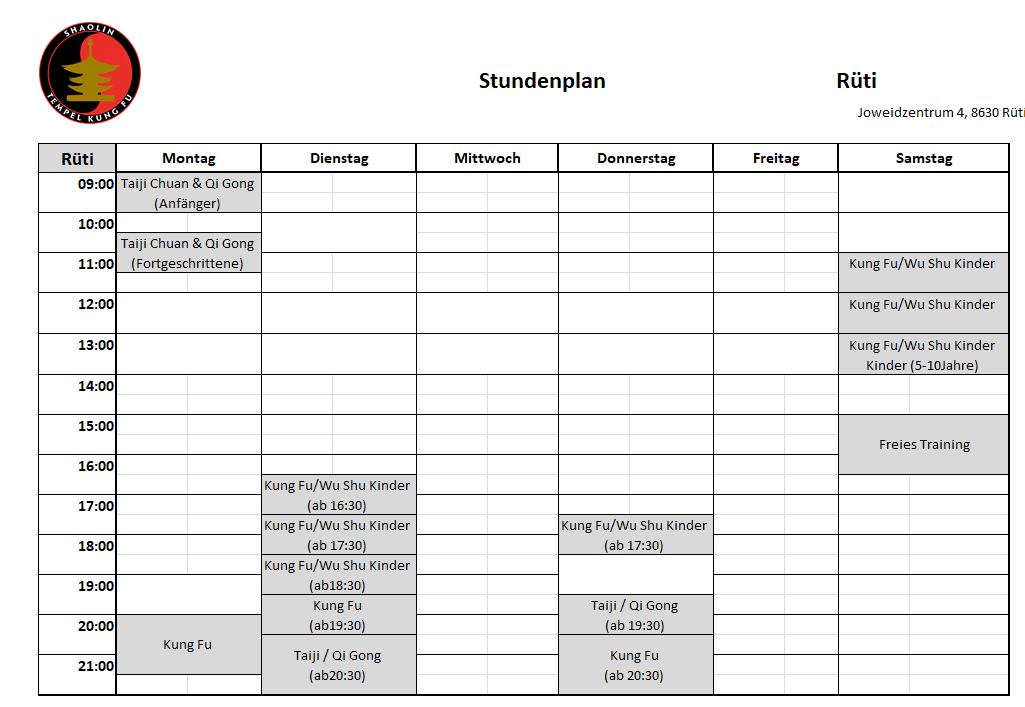
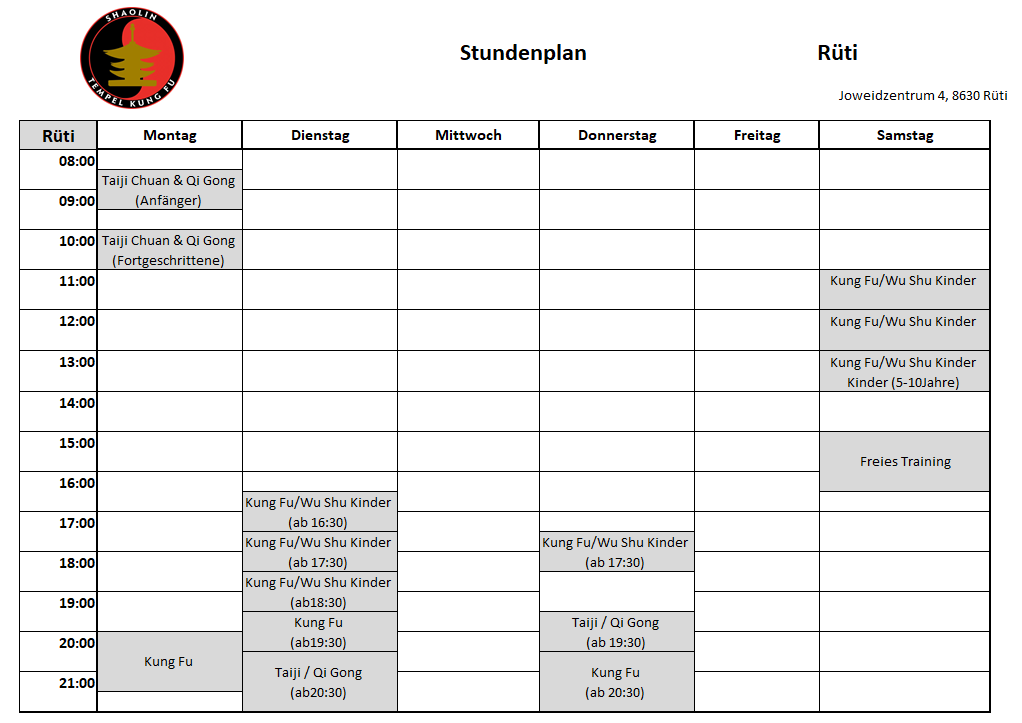
carmen stunden

diff --git a/_layouts/splashscreen.html b/_layouts/splashscreen.html
@@ -50,7 +50,7 @@
       <!--Newsbox-->
       <li style="margin-left: 640px; margin-top: 10px;"><a class="newsbox" href="/aktuell/"><div id="newsbox-image"></div>Freundschafts-<br>turnier 2023</a></li>
       <!--Infobox-->
-      <li style="margin-left: 640px; margin-top: 10px;"><a class="newsbox" href="/lehrer-turnierteam/carmen-theus/">Neu in Rüti: Taiji Chuan & Qi Gong; Montag 9-10 und 10:30-11:30</a></li>
+      <li style="margin-left: 640px; margin-top: 10px;"><a class="newsbox" href="/lehrer-turnierteam/carmen-theus/">Neu in Rüti: Taiji Chuan & Qi Gong; Montag 8:30-9:30 und 10:00-11:00</a></li>
     </ul>
     <!-- Navigation for small -->
     <ul class="side-nav show-for-small" style="text-align: center;">
@@ -62,7 +62,7 @@
       <!--Newsbox-->
       <li style="z-index:-1;"><a class="newsbox" href="/aktuell/" style="margin-left: auto; margin-right: auto; margin-top: 40px; margin-bottom: 40px;"><div id="newsbox-image"></div>Freundschafts-<br>Turnier2023&shy;</a></li>
       <!--Infobox-->
-      <li style="z-index:-1;"><a class="newsbox" href="/lehrer-turnierteam/carmen-theus/" style="margin-left: auto; margin-right: auto; margin-top: 40px; margin-bottom: 40px;">Neu in Rüti: Taiji Chuan & Qi Gong; Montag 9-10 und 10:30-11:30</a></li>
+      <li style="z-index:-1;"><a class="newsbox" href="/lehrer-turnierteam/carmen-theus/" style="margin-left: auto; margin-right: auto; margin-top: 40px; margin-bottom: 40px;">Neu in Rüti: Taiji Chuan & Qi Gong; Montag 8:30-9:30 und 10:00-11:00</a></li>
      </ul>
   </div>
 </div>

diff --git a/lehrer-turnierteam/carmen-theus/index.md b/lehrer-turnierteam/carmen-theus/index.md
@@ -6,9 +6,10 @@ title: Carmen Theus
 <img class="ifloat-left" src="/images/carmen-theus.jpg" alt="Carmen Theus" width="200px">
 Wir freuen uns, euch zwei weitere Taiji Chuan / Qi Gong-Stunden in Rüti anbieten zu können. Die Stunden für Anfänger und Fortgeschrittene, werden von Carmen Theus
 (1. Meistergrad in Taiji Chuan) geleitet:<br>
-Montag  9:00 - 10:00 Anfänger<br>
-Montag 10:00 - 11:30 Fortgeschrittene<br>
-
+Montag  8:30 - 9:30 <br>
+Montag 10:00 - 11:00 Fortgeschrittene<br>
+Bei Interesse gerne melden bei moviment@gmx.ch<br>
+<br>
 Carmen’s Training, Ausbildung und Erfahrung zieht sich weit über einen 20-jährigen Zeitraum hinaus. Sie hat regelmässig an Gruppen, Einzeltrainings, Workshops und Seminaren teilgenommen und bereits eine langjährige Erfahrung im Unterrichten. Ihre offene und freundliche Art, macht es jedem Schüler und Neueinsteiger einfach, den Weg in diese «ent-spannende» Bewegungskunst zu finden und das Interesse zu wecken. Auch wenn der Unterricht in der Gruppe stattfindet, besitzt Carmen die Fähigkeit, die Einzelperson in ihrem Training und in den Bewegungen genau zu führen und den Lernprozess zu einem angenehmen Spass und Erlebnis zu machen.
 Carmen’s Wissen, Leidenschaft und Verständnis der Kampfkunst reicht weit über das Taiji Chuan hinaus. Als Trägerin des 1. Dan (Schwarzgurt) im Shaolin Kung Fu, praktiziert sie weitere «Innere Stile» wie das Bagua Zhang, Xing Yi und das «Water Style-Boxen» (Liu He Ba Fa) und deren stiltypischen Qi Gong-Arten.<br>
 
